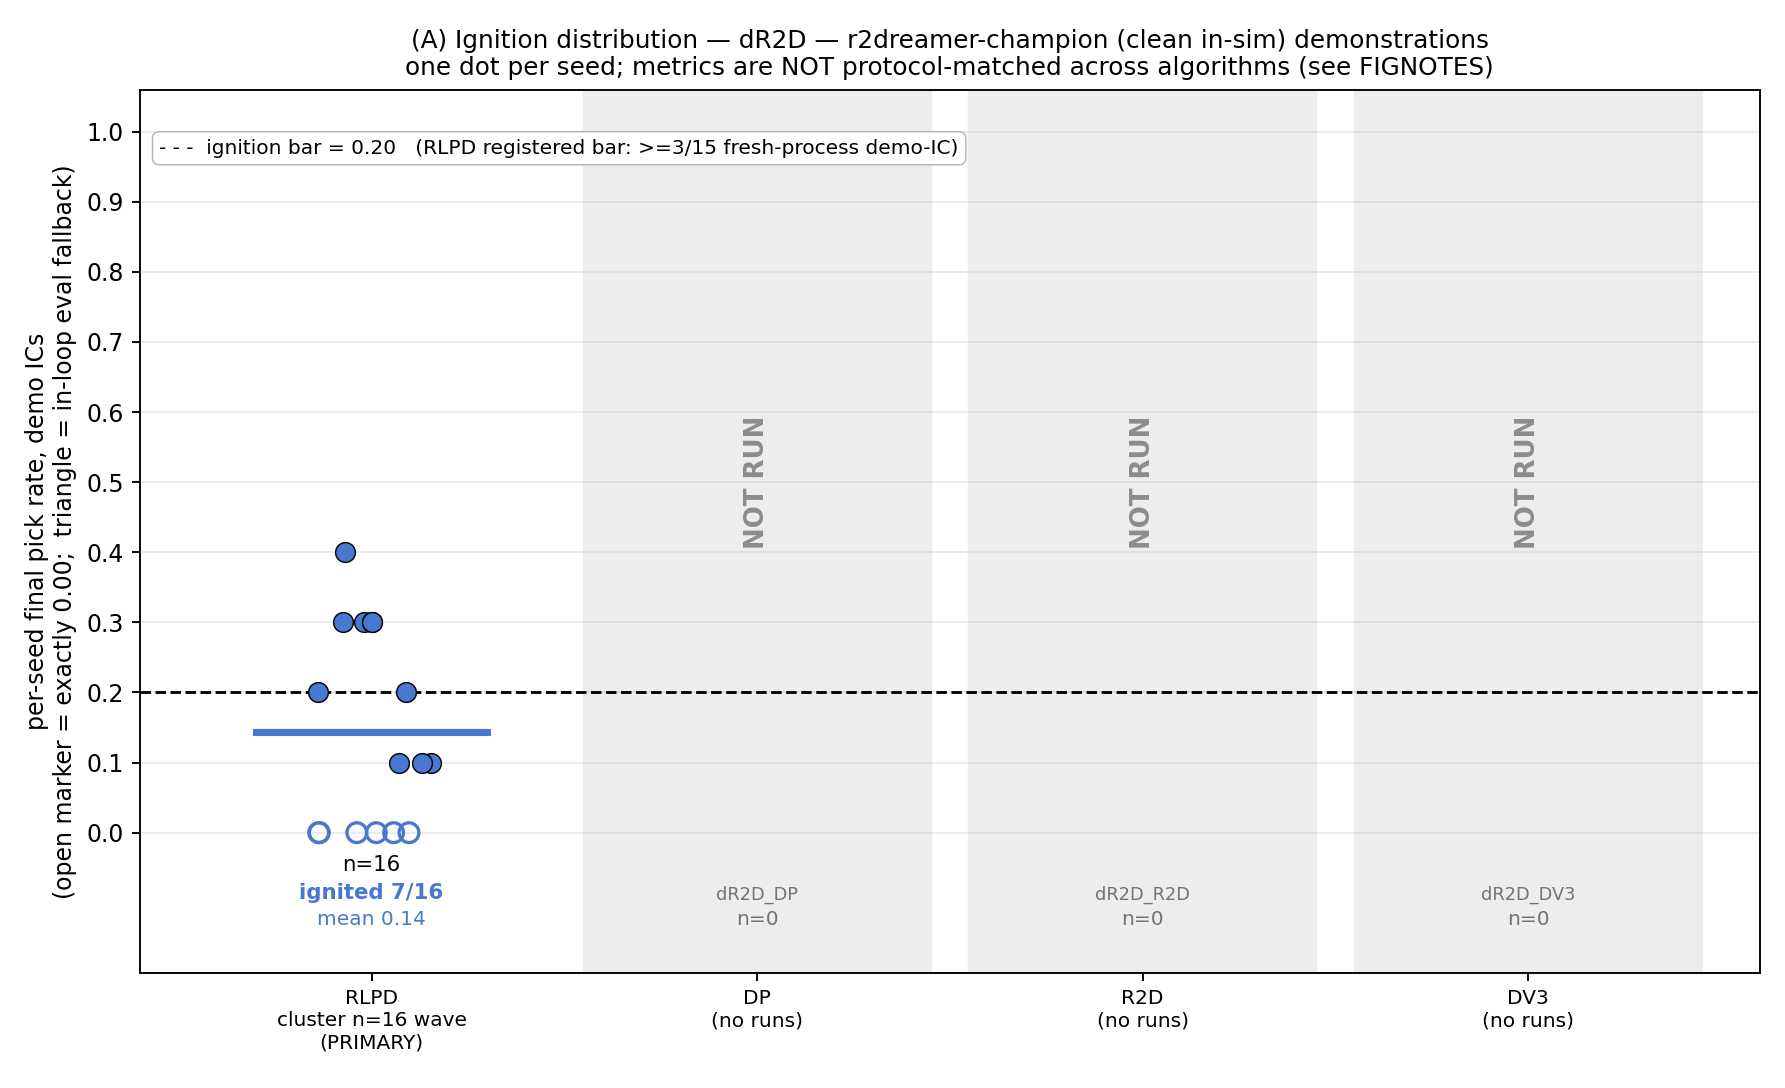
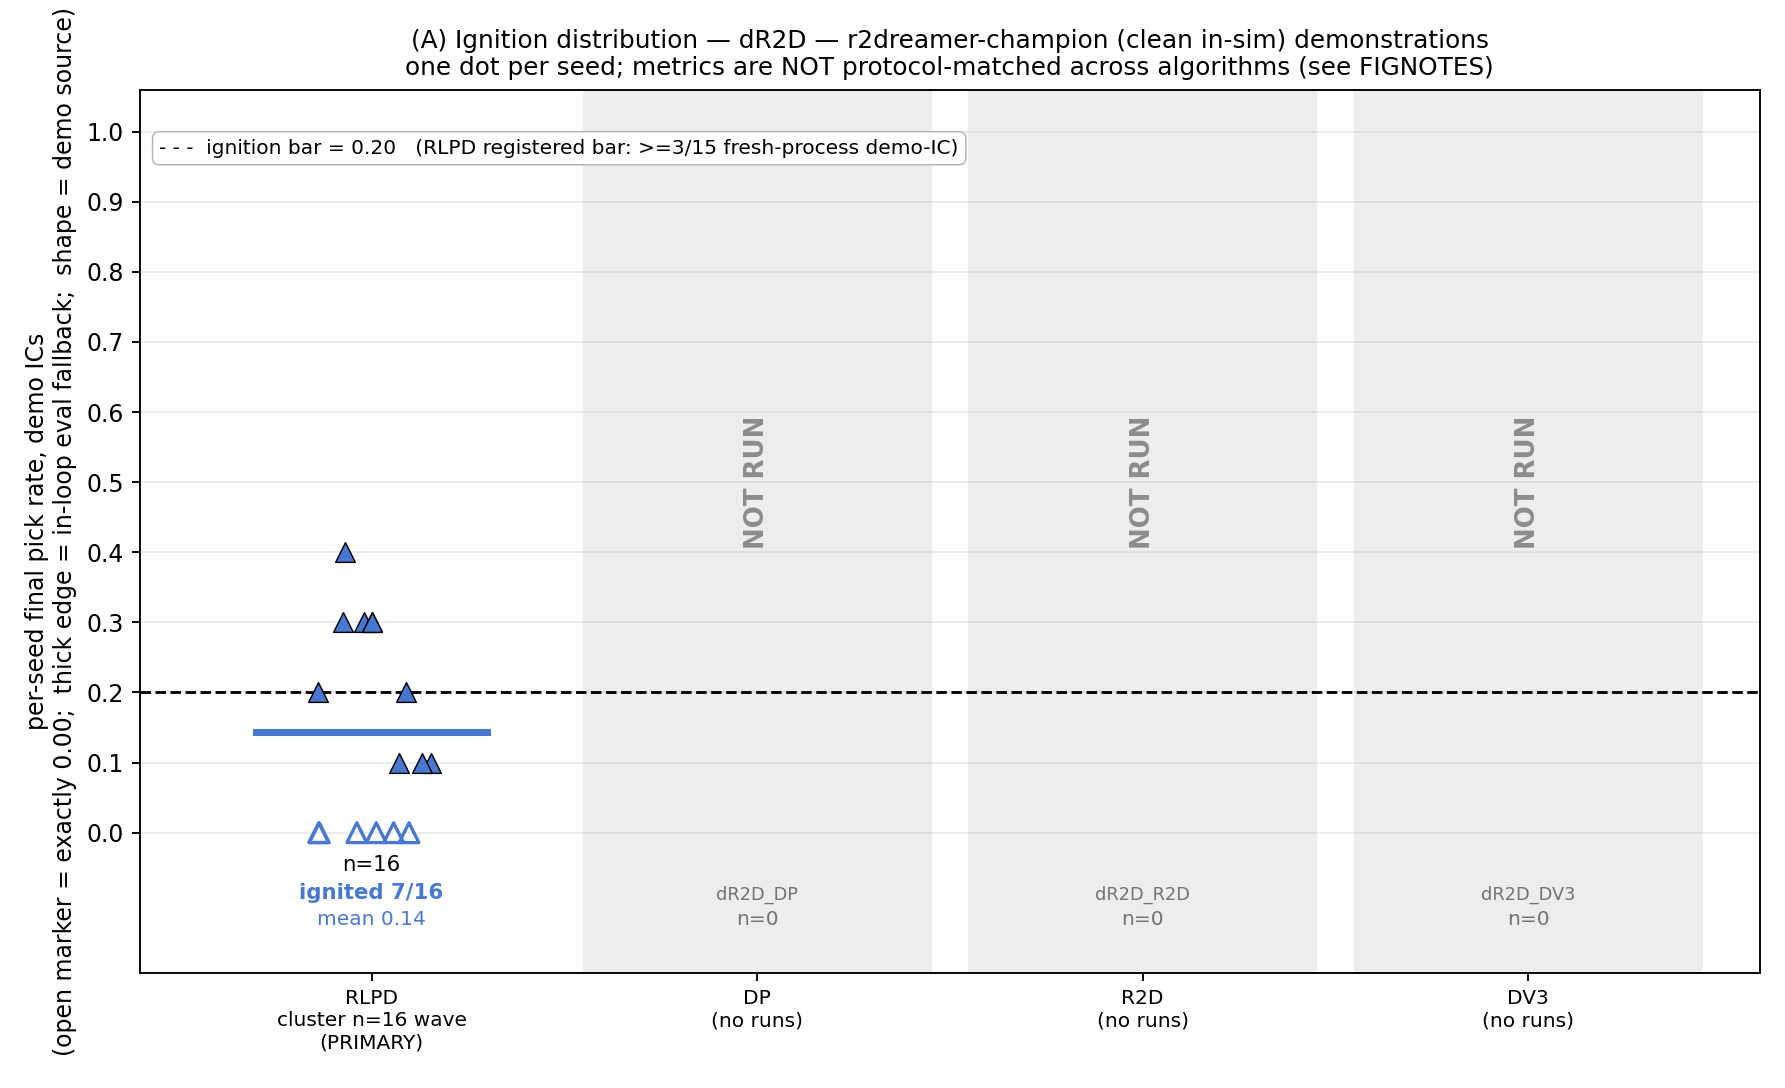
Figures: standing style rule (shape=source, color=algorithm), grid legend, STYLE_RULE.md; re-render all 10
Claude-Session: https://claude.ai/code/session_01AVJaT7Q3CMdpEUB5ogc3GM

diff --git a/analysis/make_ignition_figs_20260818.py b/analysis/make_ignition_figs_20260818.py
@@ -23,6 +23,9 @@ D = json.load(open(os.path.join(FIG, "ignition_numbers_20260818.json")))
 BAR = 0.20                      # ignition bar (>=3/15 fresh demo-IC; rate form)
 
 ALG_COLOR = {"DP": "#1b7837", "RLPD": "#4878cf", "R2D": "#cb181d", "DV3": "#8e44ad"}
+# STANDING STYLE RULE (user, 2026-08-18; see paper/figs/STYLE_RULE.md):
+#   marker SHAPE encodes demo SOURCE, COLOR encodes ALGORITHM. Fixed forever.
+SRC_MARKER = {"dH": "o", "dDP": "s", "dR2D": "^"}
 R2D_SHADE = ["#67000d", "#cb181d", "#fb6a4a", "#e07b39", "#a3a3a3"]   # one per wave, in `order`
 DASH = {0: "-", 1: "--", 2: ":", 3: "-.", 4: (0, (5, 1, 1, 1, 1, 1))}
 
@@ -122,7 +125,7 @@ def fig_A(src):
         fb = [fb[k] for k, v in enumerate(s["finals"]) if v is not None]
         jit = rng.uniform(-0.16, 0.16, len(vals))
         va = np.array(vals); fba = np.array(fb, dtype=bool)
-        for mask, mk, lw in ((~fba, "o", 0.6), (fba, "^", 0.6)):
+        for mask, mk, lw in ((~fba, SRC_MARKER[src], 0.6), (fba, SRC_MARKER[src], 1.8)):  # thick edge = in-loop fallback
             z = (va == 0) & mask
             nz = (va != 0) & mask
             # zero-valued seeds get an open marker so a stack at y=0 stays countable
@@ -160,7 +163,7 @@ def fig_A(src):
     ax.set_xlim(-0.6, len(xt) - 0.4)
     ax.set_ylim(-0.20, 1.06)
     ax.set_yticks(np.arange(0, 1.01, 0.1))
-    ax.set_ylabel("per-seed final pick rate, demo ICs\n(open marker = exactly 0.00;  triangle = in-loop eval fallback)")
+    ax.set_ylabel("per-seed final pick rate, demo ICs\n(open marker = exactly 0.00;  thick edge = in-loop eval fallback;  shape = demo source)")
     ax.set_title(f"(A) Ignition distribution — {SRC_TITLE[src]}\n"
                  "one dot per seed; metrics are NOT protocol-matched across algorithms (see FIGNOTES)",
                  fontsize=10.5)
@@ -189,10 +192,10 @@ def fig_perf(src, S, ignited_only):
             ax.axhspan(m - se, m + se, color=c, alpha=0.13, zorder=0)
             ax.axhline(m, color=c, ls=DASH[s["dash"]], lw=2,
                        label=f'{s["label"]}  n={nlab}  [{s["wave"]}; final-ckpt eval only, no step curve]')
-            ax.errorbar([s["point_step"]], [m], yerr=[se], color=c, marker="D", ms=9,
+            ax.errorbar([s["point_step"]], [m], yerr=[se], color=c, marker=SRC_MARKER[src], ms=9,
                         capsize=5, lw=2, zorder=5)
             for v in vals:
-                ax.plot([s["point_step"]], [v], marker="o", ms=4.5, mfc="none", mec=c, zorder=4)
+                ax.plot([s["point_step"]], [v], marker=SRC_MARKER[src], ms=4.5, mfc="none", mec=c, zorder=4)
             used = True; continue
         keys = sorted(s["curves"])
         keys = [keys[i] for i in keep]
@@ -223,13 +226,13 @@ def fig_perf(src, S, ignited_only):
             ax.plot(xr, yr, color=c, alpha=0.20, lw=0.9, zorder=1)
         full = nb == len(keys)
         drop = None if full.all() else int(np.argmax(~full))
-        ax.plot(xs[full], m[full], color=c, ls=DASH[s["dash"]], lw=2.2, marker="o", ms=4,
+        ax.plot(xs[full], m[full], color=c, ls=DASH[s["dash"]], lw=2.2, marker=SRC_MARKER[src], ms=4,
                 zorder=3,
                 label=f'{s["label"]}  n={nlab}' + (f'/{s["n"]}' if ignited_only else '') +
                       f'  [{s["era"]}]')
         if drop is not None:
             ax.plot(xs[drop - 1:], m[drop - 1:], color=c, ls=DASH[s["dash"]], lw=1.2,
-                    alpha=0.65, marker="o", ms=3, zorder=3)
+                    alpha=0.65, marker=SRC_MARKER[src], ms=3, zorder=3)
             ax.plot(xs[drop:], m[drop:], ls="", marker="x", ms=5, color=c, zorder=4)
         ax.fill_between(xs, np.maximum(m - se, 0), m + se, color=c, alpha=0.18, zorder=2)
         if float(np.nanmax(m)) == 0.0:   # flat-zero series: make it legible, do not drop it
@@ -284,8 +287,9 @@ def fig_overview(ALL):
         c = s.get("color") or ALG_COLOR[s["alg"]]
         jit = rng.uniform(-0.19, 0.19, len(vals))
         v = np.array(vals); z = v == 0
-        ax.scatter(v[~z], y + jit[~z], s=52, color=c, edgecolor="k", lw=0.5, zorder=3)
-        ax.scatter(v[z], y + jit[z], s=52, facecolor="none", edgecolor=c, lw=1.3, zorder=3)
+        mk = SRC_MARKER[src]
+        ax.scatter(v[~z], y + jit[~z], s=58, color=c, marker=mk, edgecolor="k", lw=0.5, zorder=3)
+        ax.scatter(v[z], y + jit[z], s=58, facecolor="none", marker=mk, edgecolor=c, lw=1.3, zorder=3)
         m = float(np.mean(vals))
         ax.plot([m, m], [y - 0.33, y + 0.33], color=c, lw=3, zorder=4)
         ig = sum(1 for q in vals if q >= BAR)
@@ -294,6 +298,19 @@ def fig_overview(ALL):
         yt.append(y); yl.append(f'{src} | {s["alg"]} | {s["wave"]}')
     ax.axvline(BAR, color="k", ls="--", lw=1.2)
     ax.text(BAR + 0.008, len(rows) - 0.4, f"ignition bar {BAR:.2f}", fontsize=8.5)
+    # shared legend key: shape = source (rows) x color = algorithm (columns); NOT-RUN greyed
+    from matplotlib.lines import Line2D
+    have = {(src, s["alg"]) for src in ALL for s in ALL[src]}
+    handles = []
+    for src in ["dH", "dDP", "dR2D"]:
+        for alg in ["DP", "RLPD", "R2D", "DV3"]:
+            ok = (src, alg) in have
+            handles.append(Line2D([], [], ls="", marker=SRC_MARKER[src], ms=8,
+                                  color=ALG_COLOR[alg] if ok else "0.8",
+                                  markeredgecolor="k" if ok else "0.6",
+                                  label=f"{src}_{alg}" + ("" if ok else " (not run)")))
+    ax.legend(handles=handles, ncol=4, fontsize=7.5, loc="lower right", framealpha=0.95,
+              title="shape = demo source, color = algorithm", title_fontsize=8)
     ax.set_yticks(yt); ax.set_yticklabels(yl, fontsize=8)
     ax.set_xlim(-0.03, 1.52); ax.set_ylim(-0.7, len(rows) - 0.3)
     ax.set_xticks(np.arange(0, 1.01, 0.1))

diff --git a/paper/figs/STYLE_RULE.md b/paper/figs/STYLE_RULE.md
@@ -1,0 +1,12 @@
+# Figure style rule (standing, user directive 2026-08-18)
+
+Every d{src}_{algo} figure in this project encodes:
+- **marker SHAPE = demo SOURCE**: dH = circle `o`, dDP = square `s`, dR2D = triangle `^`
+- **COLOR = ALGORITHM**: DP `#1b7837`, RLPD `#4878cf`, r2dreamer `#cb181d`, dv3 `#8e44ad`
+
+Fixed forever; the mapping lives in one dict (`SRC_MARKER`, `ALG_COLOR`) at the
+top of `analysis/make_ignition_figs_20260818.py` and any successor script must
+import or copy it verbatim. Why: the user tracks the whole matrix from these
+figures — one visual grammar across all of them means a reader never re-learns
+a legend. Secondary encodings (open marker = exactly 0.00; thick edge = in-loop
+eval fallback; dashes = wave) never reuse shape or hue.

diff --git a/paper/figs/FIGNOTES_ignition_20260818.md b/paper/figs/FIGNOTES_ignition_20260818.md
@@ -421,3 +421,5 @@ $V analysis/pull_ignition_wandb_20260818.py  <scratchdir>   # ~10 min of wandb A
 $V analysis/assemble_ignition_20260818.py    <scratchdir>   # -> ignition_numbers_20260818.json
 $V analysis/make_ignition_figs_20260818.py                  # -> the ten PNGs
 ```
+
+Style: figures follow paper/figs/STYLE_RULE.md (shape = source, color = algorithm; user directive 2026-08-18).
